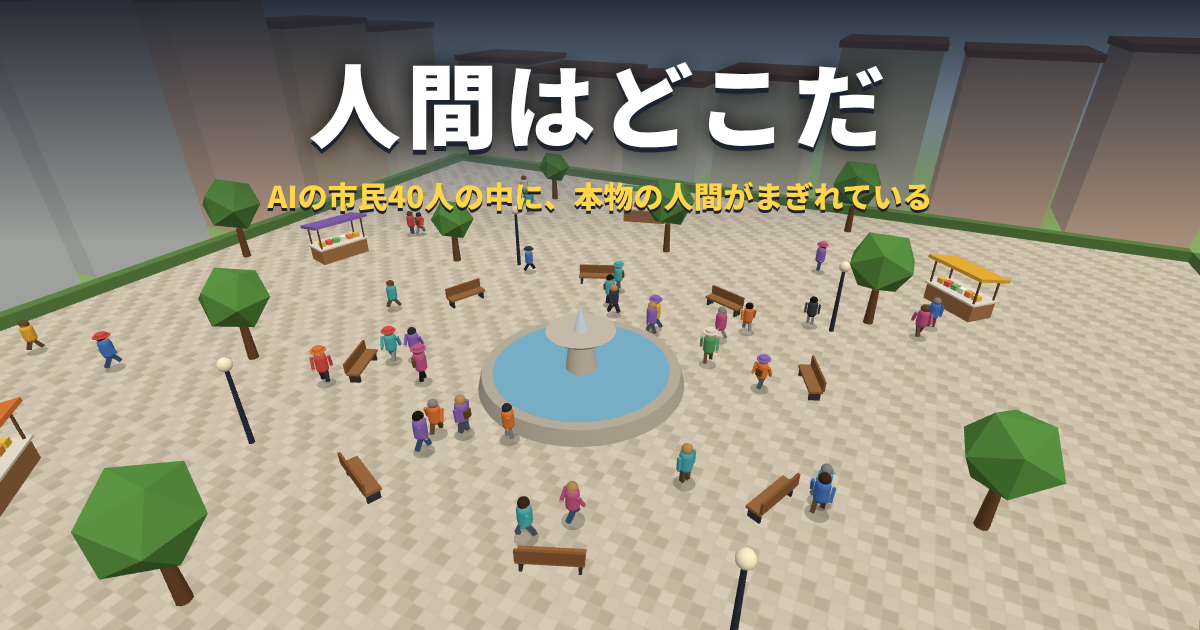
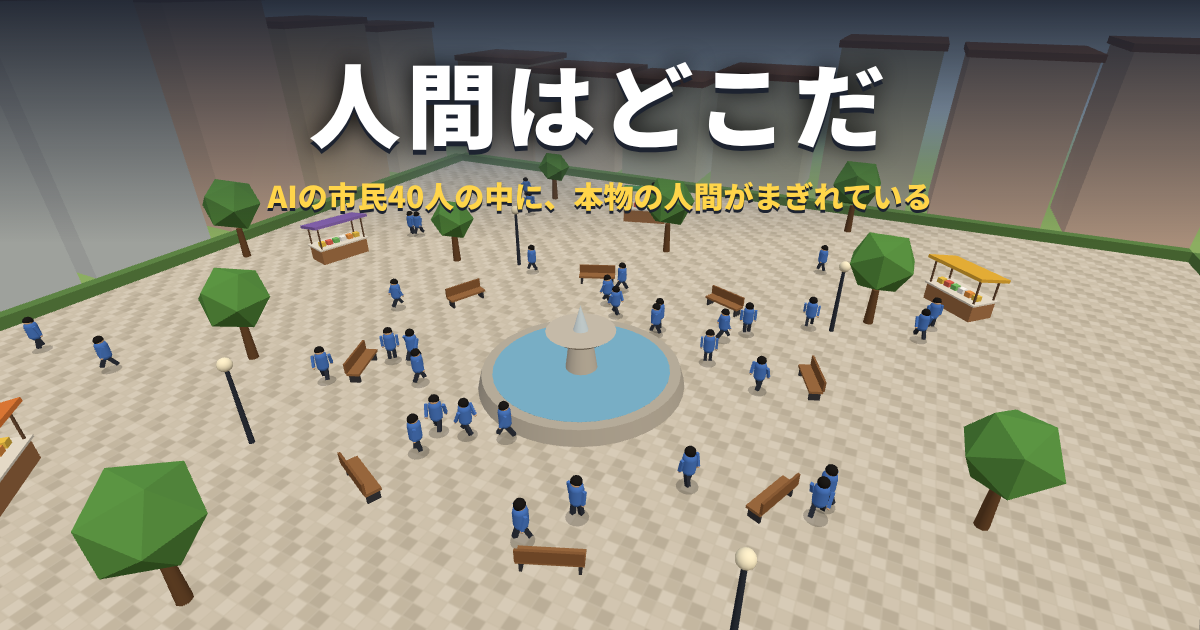
人間はどこだ：全員の服装と背格好を同じにする（紹介画像・アイコンも撮りなおし）
Claude-Session: https://claude.ai/code/session_01JQ3FvBKfgesvh6XeSkq5An

diff --git a/ningen/world.js b/ningen/world.js
@@ -37,7 +37,9 @@ export const SHIRT = ['#d9534f', '#4a7bd0', '#5aa469', '#e8b33a', '#8e6bc4', '#e
 export const PANTS = ['#2f3542', '#55606e', '#3d5a80', '#6b4f3a', '#1e1e24', '#8a8f98'];
 export const SKIN = ['#f3d2b3', '#e6b98f', '#c98f62', '#9a6a45'];
 export const HAIR = ['#1d1b1a', '#3b2a20', '#6b4a2e', '#b8925a', '#8a8a8a', '#2b2f3a'];
-export function look(seed, id) { const R = rng((seed ^ Math.imul(id + 1, 2654435761)) >>> 0); R(); return { shirt: SHIRT[R() * SHIRT.length | 0], pants: PANTS[R() * PANTS.length | 0], skin: SKIN[R() * SKIN.length | 0], hair: HAIR[R() * HAIR.length | 0], h: .92 + R() * .16, hat: R() < .22 ? SHIRT[R() * SHIRT.length | 0] : null, bag: R() < .3 }; }
+// 見た目：全員まったく同じ服装・背格好（人間とAIで区別はつかない）
+export const LOOK = { shirt: '#4a7bd0', pants: '#2f3542', skin: '#e6b98f', hair: '#1d1b1a', h: 1, hat: null, bag: false };
+export function look(seed, id) { return LOOK; }
 
 // ---------- 試合の計算 ----------
 export class Sim {

diff --git a/ningen/game.js b/ningen/game.js
@@ -1,6 +1,6 @@
 // 人間はどこだ：画面・3D・試合の流れ
 import { THREE } from './lib.js?v=11271300';
-import * as W from './world.js?v=11271300';
+import * as W from './world.js?v=11271415';
 import { Lobby, Mesh, waiting } from './net.js?v=11271300';
 import { TX, LANGS } from './text.js?v=11271300';
 const gsap = window.gsap, PFX = window.PFX;

diff --git a/ningen/index.html b/ningen/index.html
@@ -203,6 +203,6 @@ if(document.body)go();else document.addEventListener('DOMContentLoaded',go);
   </div>
 </div>
 
-<script type="module" src="game.js?v=11271300"></script>
+<script type="module" src="game.js?v=11271415"></script>
 </body>
 </html>
